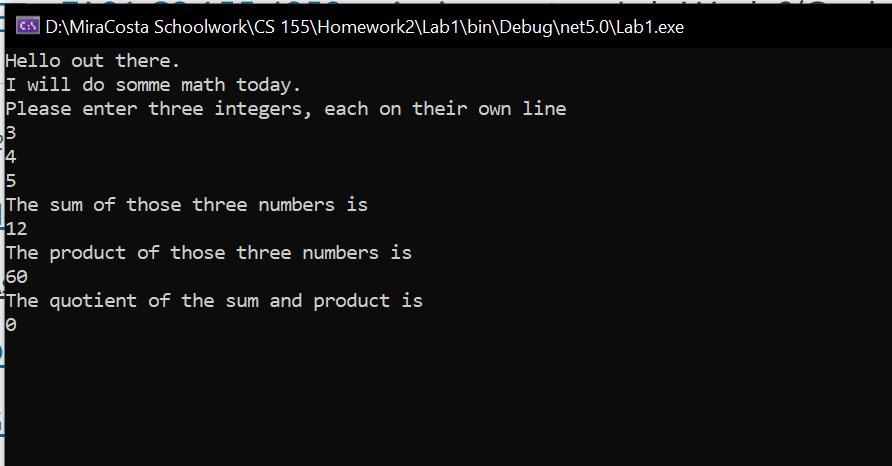
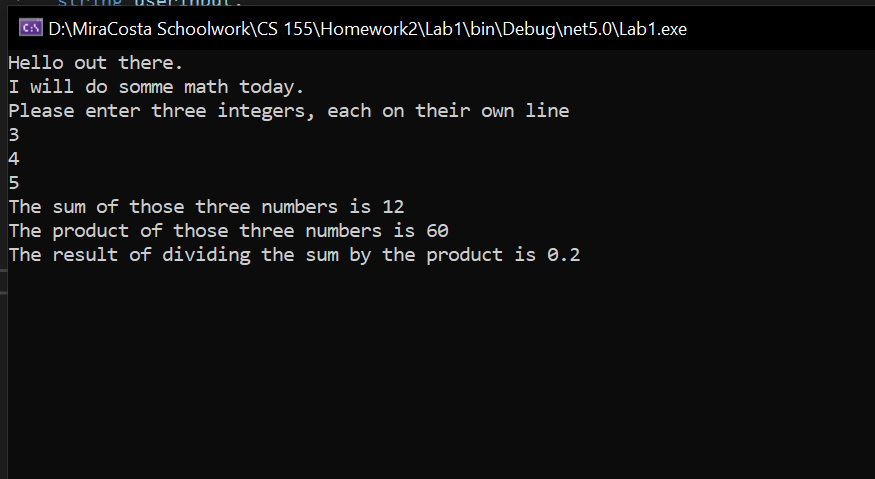
fixed quotient via typecasting, updated screenshot

Changed region(s): [[0.0, 0.0, 1.0, 1.0]]

diff --git a/Lab1/Program.cs b/Lab1/Program.cs
@@ -28,7 +28,8 @@ namespace Lab1
             Console.WriteLine("Please enter three integers, each on their own line");
 
             // declare all variables
-            int n1, n2, n3, product, sum, quotient;
+            int n1, n2, n3, product, sum;
+            float quotient;
 
             string userInput;
             userInput = Console.ReadLine();
@@ -41,15 +42,12 @@ namespace Lab1
             product = n1 * n2 * n3;
 
             //calculate the quotient
-            quotient = sum / product;
+            quotient = sum / (float)product;
 
             // print the sum, product and quotient to the screen along with appropriate messages
-            Console.WriteLine("The sum of those three numbers is");
-            Console.WriteLine(sum);
-            Console.WriteLine("The product of those three numbers is");
-            Console.WriteLine(product);
-            Console.WriteLine("The quotient of the sum and product is");
-            Console.WriteLine(quotient);
+            Console.WriteLine("The sum of those three numbers is " + sum);
+            Console.WriteLine("The product of those three numbers is " + product);
+            Console.WriteLine("The result of dividing the sum by the product is " + quotient);
 
             //Just to pause the screen.
             Console.ReadLine();
